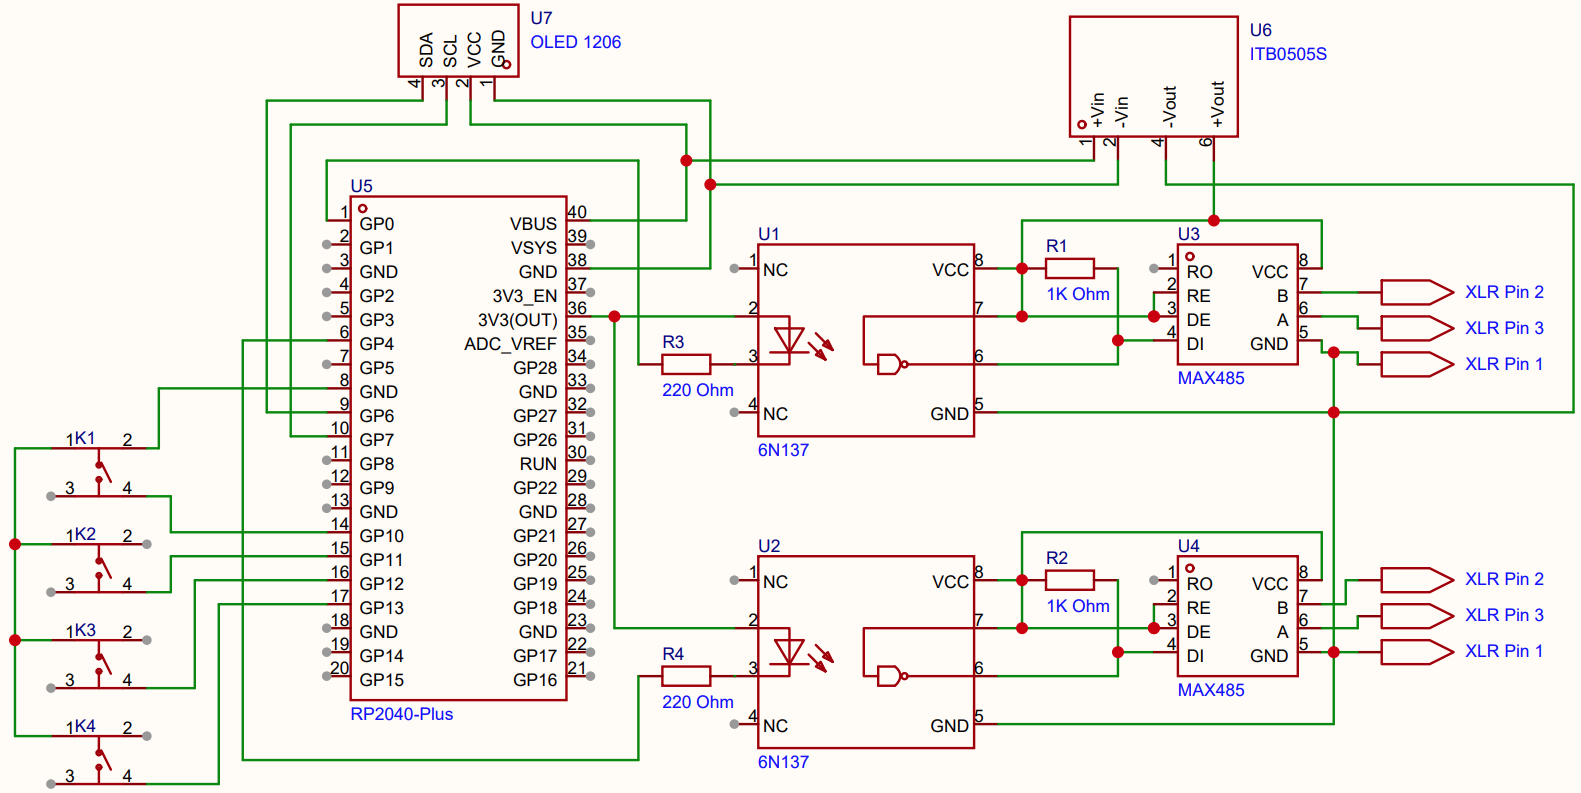
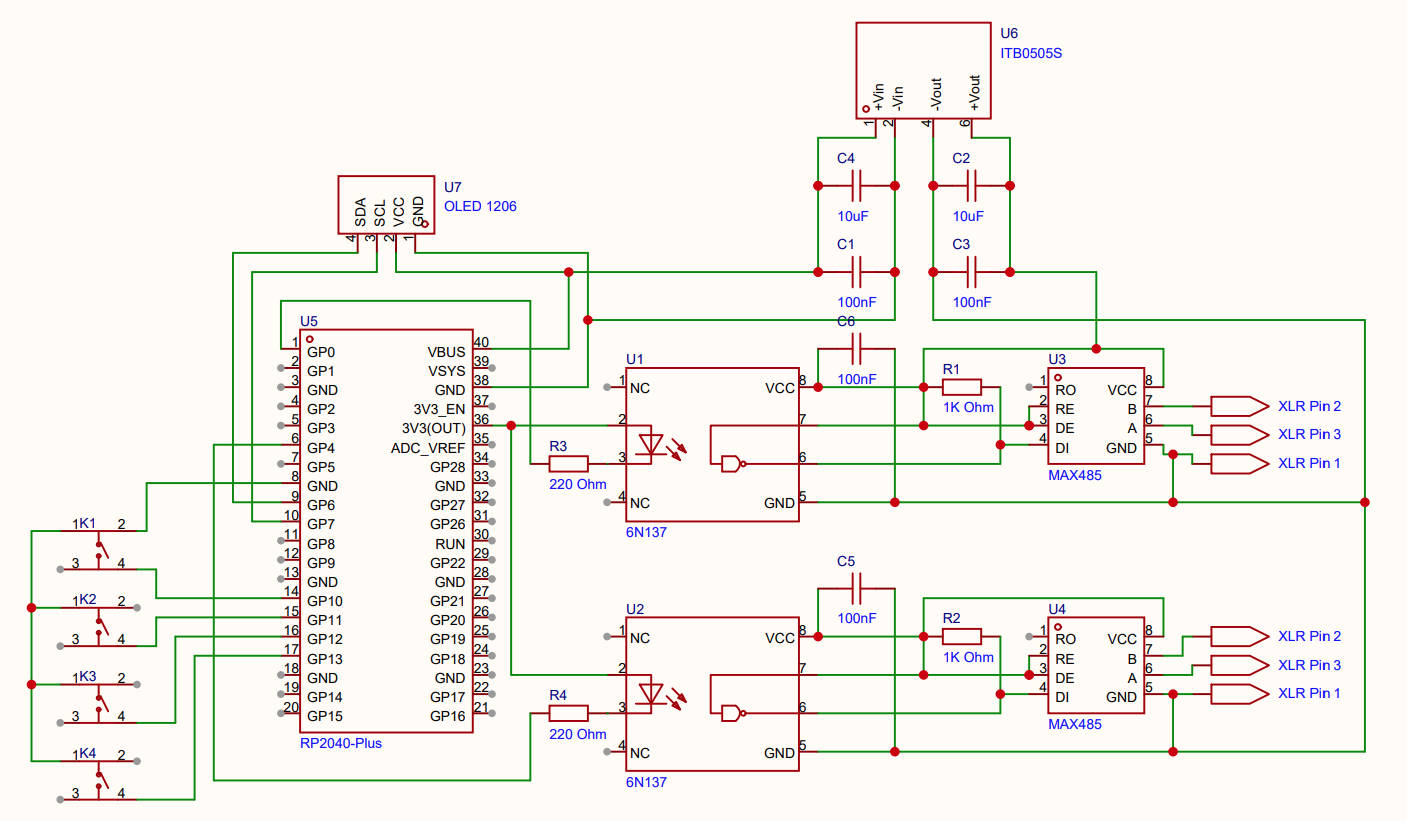
added capacitors

Changed region(s): [[0.0, 0.0, 1.0, 0.9987], [0.1528, 0.9382, 0.3973, 0.9685]]

diff --git a/README.md b/README.md
@@ -108,19 +108,20 @@ An isolated DC-DC converter (**B0505S-1W**) supplies a dedicated floating 5 V ra
 | 6 | **Perfboard / PCB** | [AliExpress](https://it.aliexpress.com/item/1005006066751179.html) |
 | 7 | **Tactile Push Buttons** ×4 | [AliExpress](https://it.aliexpress.com/item/1005005658595026.html) |
 | 8 | **SSD1306 0.96″ OLED Display** | [AliExpress](https://s.click.aliexpress.com/e/_c4LZoMDz) |
-| 9 | **Assorted Resistors** | — |
+| 9 | **Assorted Resistors and capacitors** | — |
 | 10 | **3D Printed Case** *(optional)* | See below |
 
 ---
 
 ### 📐 Wiring Diagram
 
-> [!NOTE]
-> This diagram was drawn after the build, so minor inaccuracies are possible — but it should be correct.
-
 <div align="center">
 <img src="./resources/wiring_circuit.png" alt="Wiring Diagram" width="700">
 </div>
+
+C2 and C4 are electrolytic capacitor
+
+C1, C3, C5, C6 are ceramic capacitor, since for them are required a lower ESR.
 
 ---
 
@@ -164,7 +165,7 @@ In QLC+, select **Pro Mk2** in the mode menu:
 
 #### Back of the PCB
 
-The two opto-isolators (6N137) with their associated pull-up resistors.
+The two opto-isolators (6N137) with their associated pull-up resistors. In this picture capacitors are missed.
 
 <div align="center">
 <img src="./resources/back_circuit.jpg" alt="Back of the PCB — Opto-isolators" width="550">
